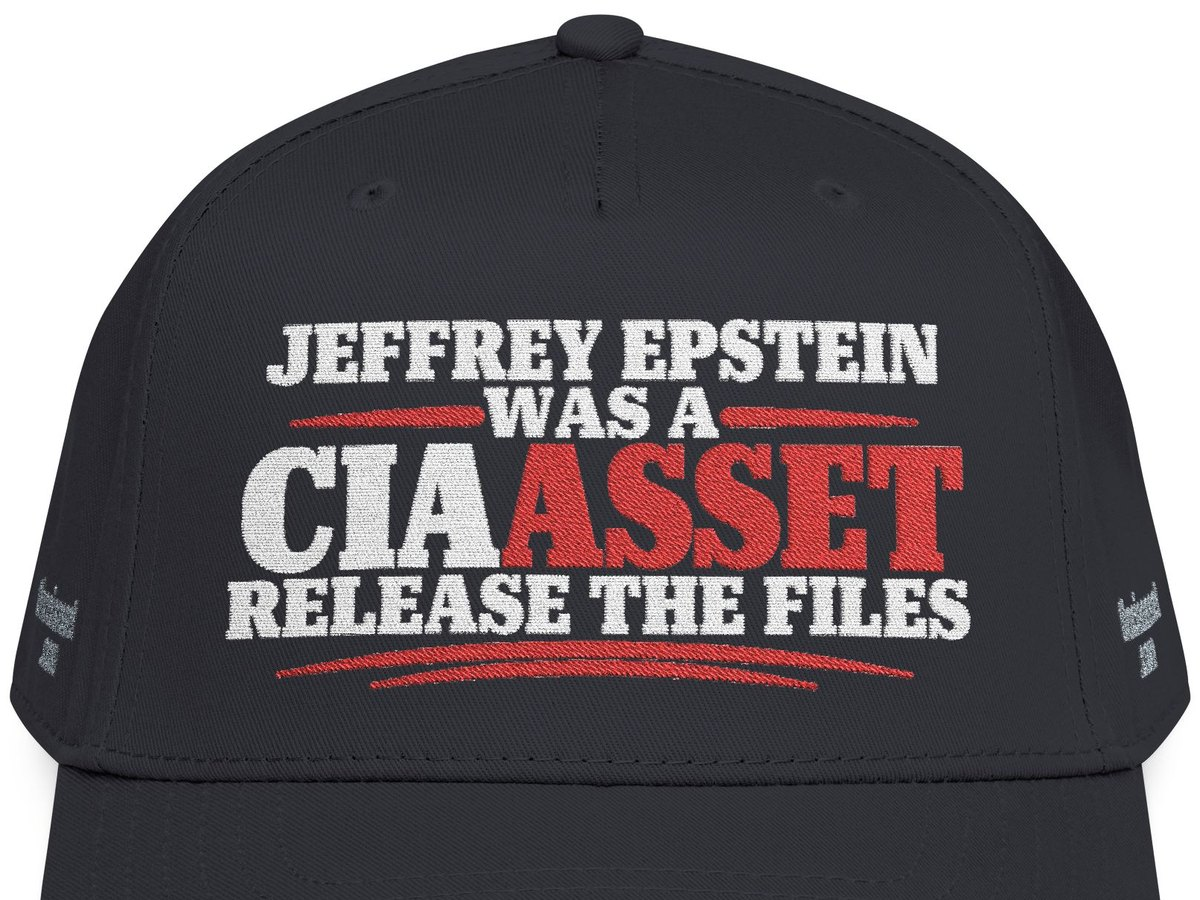
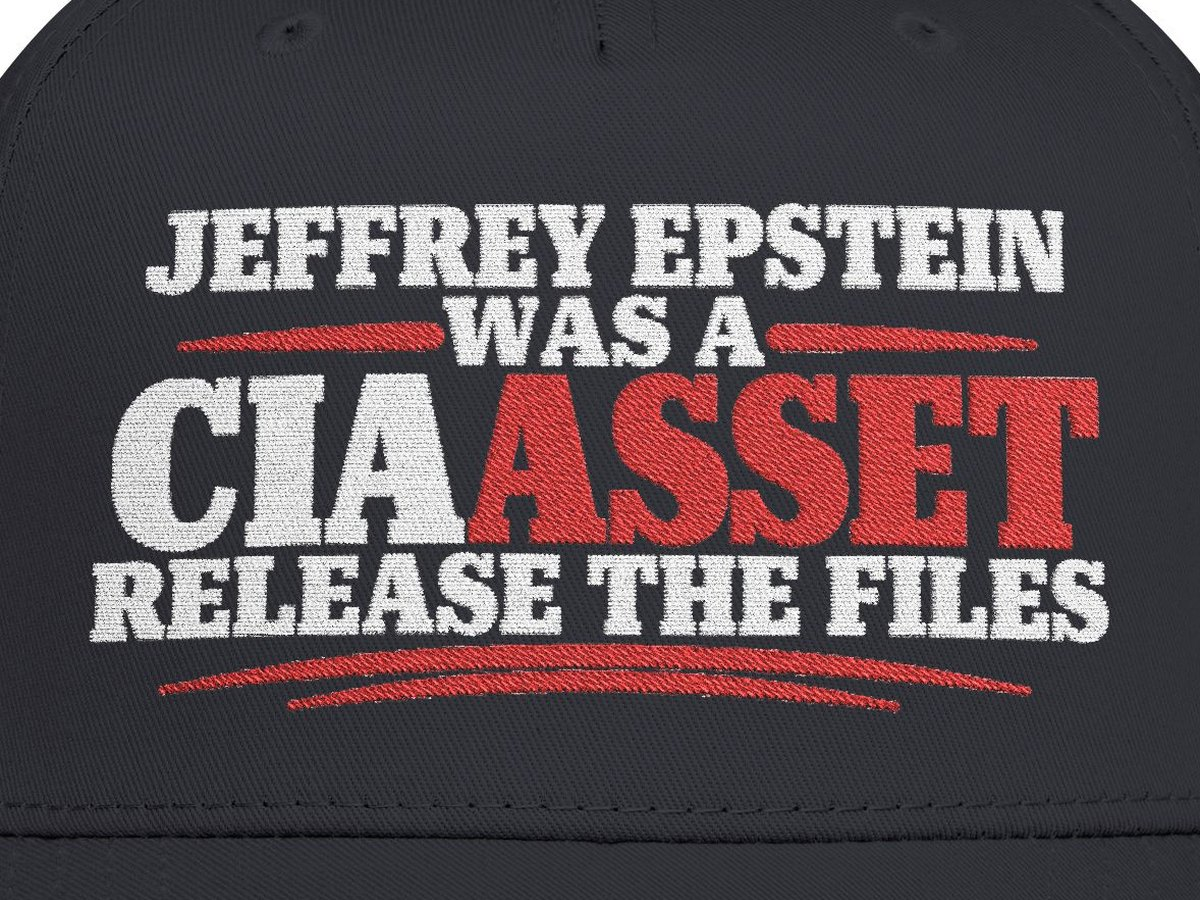
The cap's photos with theciaasset.com on one line on each side (Jason, 2026-11-17: "I do NOT want the url on multiple lines. It must be on a single line."): new renders of both colours (cap-v2). merch.js v11.

diff --git a/assets/merch.js b/assets/merch.js
@@ -96,7 +96,7 @@
     const alt = { front: `The ${n} cap from the front: the design embroidered across the front panel in ${thread} thread`, left: `The ${n} cap from the left: theciaasset.com embroidered in grey on the side`,
       right: `The ${n} cap from the right: theciaasset.com embroidered in grey on the side`, back: `The back of the ${n} cap with its adjustable snapback`,
       detail: `Close-up of the front embroidery on the ${n} cap`, side: `Close-up of theciaasset.com embroidered on the side of the ${n} cap` };
-    return CAP_VIEWS.map(([k, label]) => ({ src: `assets/caps/oc31069-${c}-${k}.jpg?v=1`, thumb: `assets/caps/oc31069-${c}-${k}-thumb.jpg?v=1`, label, alt: alt[k] })); };
+    return CAP_VIEWS.map(([k, label]) => ({ src: `assets/caps/oc31069-${c}-${k}.jpg?v=2`, thumb: `assets/caps/oc31069-${c}-${k}-thumb.jpg?v=2`, label, alt: alt[k] })); };   // v2: the URL on one line (cap-v2)
   const SHOTSETS = { R112: { blackwhite: HAT_SHOTS }, OC31069: { black: capShots('black'), white: capShots('white') } };
   const photoOf = (code, color, fallback) => (SHOTSETS[code] ? (SHOTSETS[code][color] || Object.values(SHOTSETS[code])[0])[0].thumb : SHOTS[code]?.[color] || fallback || null);
   const isHat = (it) => it?.product?.kind === 'hat';

diff --git a/index.html b/index.html
@@ -949,6 +949,6 @@
 </dialog>
 <div class="toast" id="toast" role="status" aria-live="polite"></div>
 <script src="assets/site.js?v=104" defer></script>
-<script src="assets/merch.js?v=10" defer></script>
+<script src="assets/merch.js?v=11" defer></script>
 </body>
 </html>
